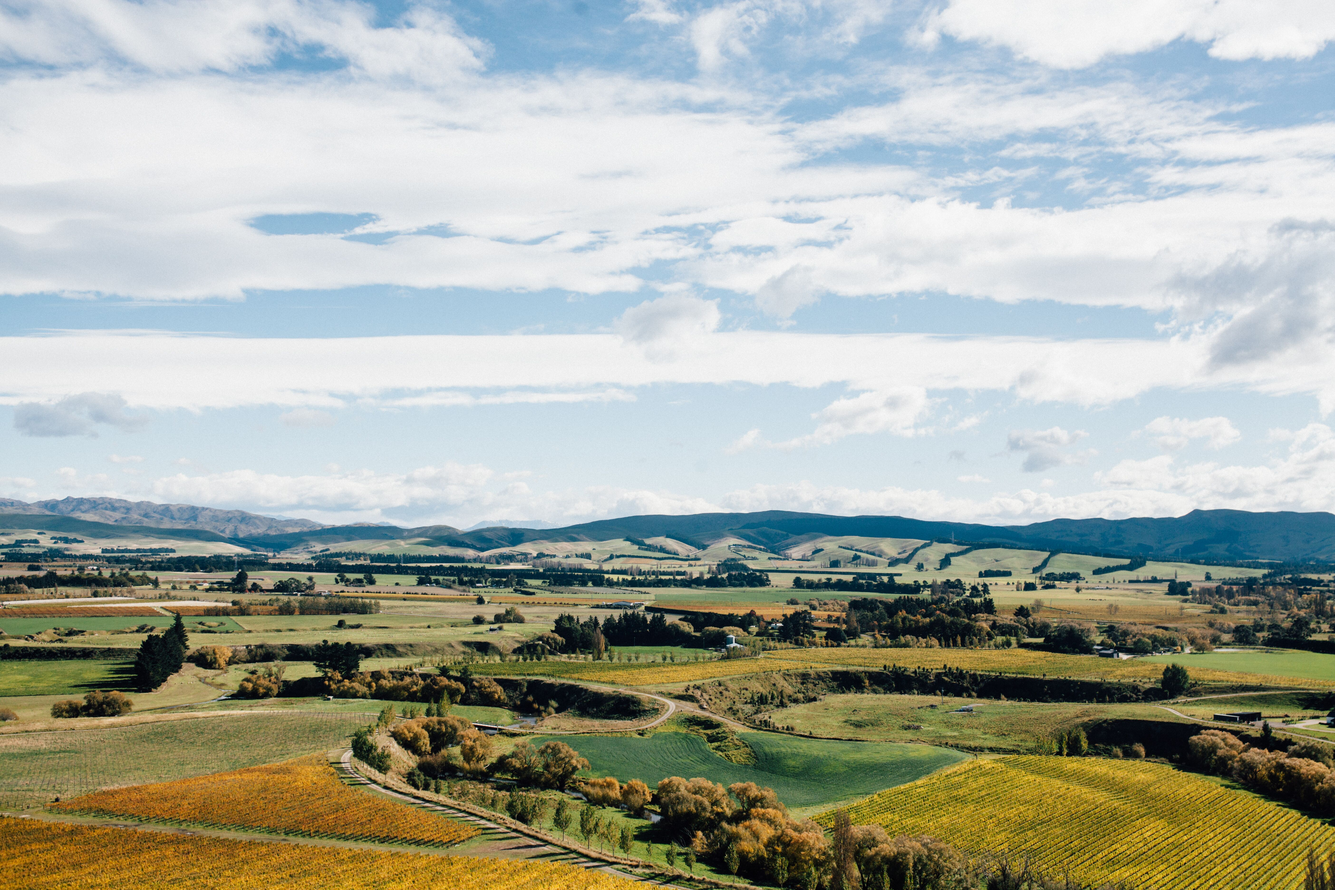
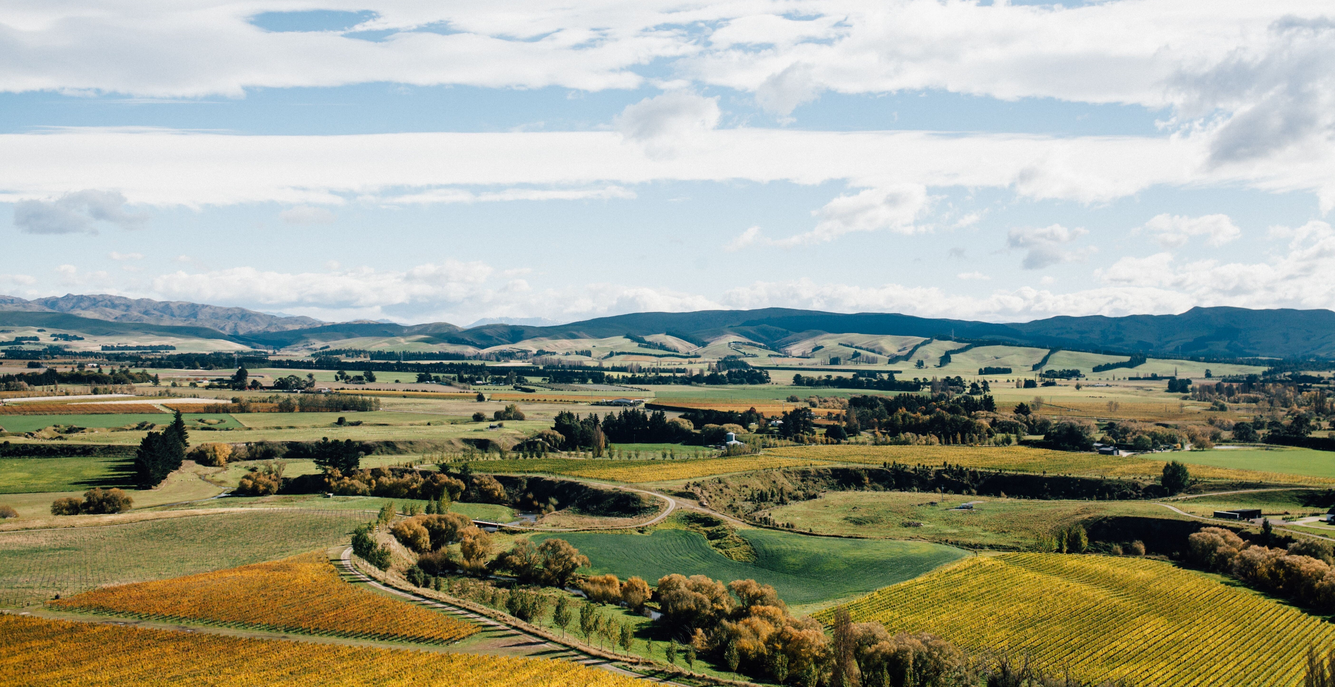
shop

diff --git a/shop.html b/shop.html
@@ -52,10 +52,13 @@
         </div>
     </div>
 
-    <main class="shop-landing">
-        <div class="shop-landing-image">
-            <img src="./resources/images/" alt="Black Estate bird eye view">
-        </div>
+    <main class="shop-landing-image">
+    </main>
+        <!-- <div class="shop-landing-image">
+            <img src="./resources/images/shop-landing.jpg" alt="Black Estate bird eye view">
+        </div> -->
+
+    <div class="shop-menu-section">
         <div class="shop-menu">
             <li><a href="wine.html">Wines</a></li>
             <li><a href="food.html">Food</a></li>
@@ -63,11 +66,13 @@
             <li><a href="items.html">Items</a></li>
         </div>
         <div class="shop-blurb">
-            <p>Lorem ipsum dolor sit amet, consectetur adipiscing elit. Lacus curabitur quisque sed enim nibh tempor sapien maecenas ipsum.</p>
+            <p>Lorem ipsum dolor sit amet, consectetur adipiscing elit. Lacus curabitur quisque sed enim nibh tempor sapien maecenas ipsum</p>
         </div>
+    </div>
 
 
-    </main>
+
+    
 
     
 

diff --git a/resources/style/style.scss b/resources/style/style.scss
@@ -373,6 +373,13 @@
     text-align: left;
 }
 
+@mixin body-text-light{
+  font-family: 'Biryani', sans-serif;
+  font-size: 1.3em;
+  color: #F1F5F2;
+  text-align: left;
+}
+
 @mixin button{
     background-color: #C59407;
     color: #F1F5F2;
@@ -750,6 +757,27 @@ h6{
 
 /* SHOP LAYOUT */
 
+.shop-landing-image{
+    height: 80vh;
+    background-image: url("../images/shop-landing.jpg");
+    background-size: cover;
+}
+
+.shop-menu-section{
+  margin: auto;
+  text-align: center;
+  list-style: none;
+}
+
+.shop-menu{
+  display: flex;
+  margin: auto; 
+  justify-content: center;
+}
+
+.shop-menu li{
+  padding: 1em;;
+}
 
 
 @media screen and (max-width: 1120px) {
@@ -924,7 +952,7 @@ h6{
     grid-area: licence;
     font-family: 'Biryani', sans-serif;
     text-align: center;
-}
+    }
 
 // LANDING PAGE SECTION
 
@@ -940,10 +968,4 @@ h6{
   .img-wrapper{
       overflow: hidden;
   }
-
 }
-
-
-
-  
-

diff --git a/resources/style/style.css b/resources/style/style.css
@@ -645,6 +645,28 @@ h6 {
 }
 
 /* SHOP LAYOUT */
+.shop-landing-image {
+  height: 80vh;
+  background-image: url("../images/shop-landing.jpg");
+  background-size: cover;
+}
+
+.shop-menu-section {
+  margin: auto;
+  text-align: center;
+  list-style: none;
+}
+
+.shop-menu {
+  display: flex;
+  margin: auto;
+  justify-content: center;
+}
+
+.shop-menu li {
+  padding: 1em;
+}
+
 @media screen and (max-width: 1120px) {
   /* FONTS */
   h1 {
